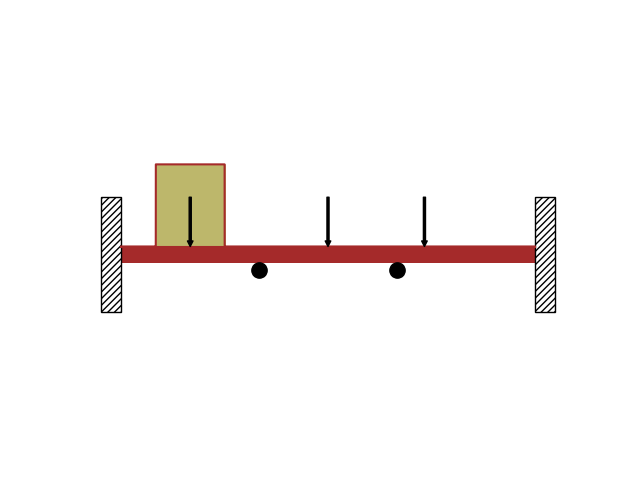
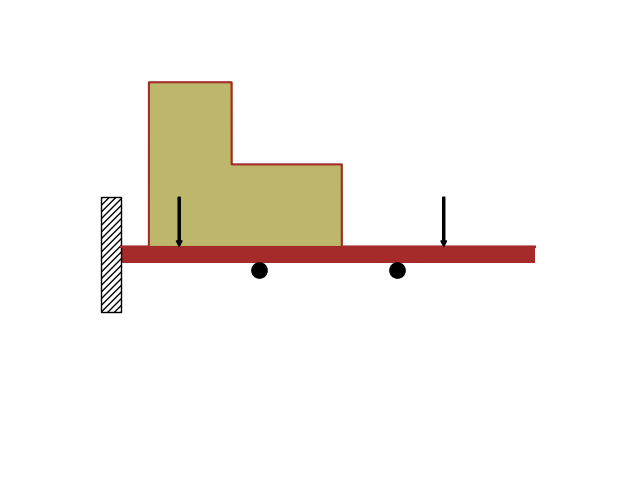
changed the loading form for continuous beam

Changed region(s): [[0.2188, 0.1562, 0.5625, 0.5312], [0.8125, 0.4062, 0.875, 0.6562], [0.6562, 0.4062, 0.7188, 0.5312]]

diff --git a/pages/Continious_Beam_Analysis.py b/pages/Continious_Beam_Analysis.py
@@ -1,5 +1,6 @@
 from ossaudiodev import control_labels
 
+
 from requests import options
 import streamlit as st
 
@@ -51,7 +52,7 @@ if type_of_spans == "Equal":
     
     #print(_equally_spaced_sprt_loc)
     _span_options = create_span_list(num_spans)
-    _span_choice = further_params.radio("choose span no:", options= _span_options, horizontal=True)
+    #_span_choice = further_params.radio("choose span no:", options= _span_options, horizontal=True)
     
     #-- Initialization of beam
 
@@ -60,62 +61,67 @@ if type_of_spans == "Equal":
     #----initializing a session state variable to save the user input
     #---Read More @ https://docs.streamlit.io/library/api-reference/session-state
     #---Handy tutorial @ https://www.youtube.com/watch?v=5l9COMQ3acc
+    
     if 'pt_load_matrix' not in st.session_state:
-        st.session_state.pt_load_matrix = [None, None, None, None]
+        st.session_state.pt_load_matrix = generate_list(num_spans)
 
     if 'udl_matrix' not in st.session_state:
-        st.session_state.udl_matrix = [None, None, None, None]
+        st.session_state.udl_matrix = generate_list(num_spans)
 
 
     if 'moment_matrix' not in st.session_state:
-        st.session_state.moment_matrix = [None, None, None, None]
+        st.session_state.moment_matrix = generate_list(num_spans)
 
         
     # point_load_form
     pt_load_inp_form = pt_load_frm.form("simple_loadings_form_pt")
-    pt_load_inp_form.write(_span_choice)
-    _span_id = int(_span_choice[5])
-    point_load = pt_load_inp_form.slider("Point Magnitude (kN)", 0.0, 25.0, 10.0, step=1.0)
-    point_load_loc = pt_load_inp_form.slider("Point Load Location (m)", float(_equally_spaced_sprt_loc[_span_id-1]), float(_equally_spaced_sprt_loc[_span_id]), float(_equally_spaced_sprt_loc[_span_id]+_equally_spaced_sprt_loc[_span_id-1])/2, step=0.1)  
+    _span_choice_pt = pt_load_inp_form.radio("choose span no:", options= _span_options, horizontal=True)
+    
+    _span_id_pt = int(_span_choice_pt[5])
+    point_load = pt_load_inp_form.slider("Point Magnitude (kN)", 0.0, 25.0, 0.0, step=1.0)
+    point_load_loc = pt_load_inp_form.slider("Point Load Location (m)", 0.0, total_length, total_length/2.0, step=0.1)  
     pt_load_inp_form.form_submit_button("Apply Point Load")
 
     #----- Saving Load
-    print(_span_choice, _span_id)
+    
     st.session_state.pt_load_matrix
-    st.session_state.pt_load_matrix[_span_id-1] = [point_load, point_load_loc]
+    st.session_state.pt_load_matrix[_span_id_pt-1] = [point_load, point_load_loc]
     
     
     ##### UDL Form #########
     udl_load_inp_form = udl_frm.form("simple_loadings_form_udl")
-    udl_load_inp_form.write(_span_choice)
-    _span_id = int(_span_choice[5])
-    udl_load = udl_load_inp_form.slider("UDL Magnitude (kN/m)", 0.0, 20.0, 10.0, step=1.0)
+    _span_choice_udl = udl_load_inp_form.radio("choose span no:", options= _span_options, horizontal=True)
+    
+    
+    _span_id_udl = int(_span_choice_udl[5])
+    udl_load = udl_load_inp_form.slider("UDL Magnitude (kN/m)", 0.0, 20.0, 0.0, step=1.0)
 
     
-    lat = list(np.around(np.linspace(float(_equally_spaced_sprt_loc[_span_id-1]), float(_equally_spaced_sprt_loc[_span_id]), 5),decimals = 2))
+    lat = list(np.around(np.linspace(0.0, total_length, int(total_length)+1),decimals = 2))
     udl_strt_loc, udl_end_loc = udl_load_inp_form.select_slider("label", options=lat, value=(lat[0], lat[-1]))
     
-    ## start and end location is a string - later convert it to float in order to use
+    ## start and end location is a string - later converti it to float in order to use
     udl_load_inp_form.form_submit_button("Apply UDL")
 
     #----- Saving Load
-    st.session_state.udl_matrix[_span_id-1] = [udl_load, float(udl_strt_loc), float(udl_end_loc)]
+    st.session_state.udl_matrix[_span_id_udl-1] = [udl_load, float(udl_strt_loc), float(udl_end_loc)]
 
     ##### Moment Load Form ########
     moment_load_inp_form = mmt_frm.form("simple_loadings_form_moment")
-    moment_load_inp_form.write(_span_choice)
-    _span_id = int(_span_choice[5])
+    _span_choice_mmt = moment_load_inp_form.radio("choose span no:", options= _span_options, horizontal=True)
+    
+    _span_id_mmt = int(_span_choice_mmt[5])
     moment_load = moment_load_inp_form.slider("Moment Magnitude (kN-m)", -20.0, 20.0, 0.0, step=1.0)
-    moment_load_loc = moment_load_inp_form.slider("Moment Load Location (m)", float(_equally_spaced_sprt_loc[_span_id-1]), float(_equally_spaced_sprt_loc[_span_id]), float(_equally_spaced_sprt_loc[_span_id]+_equally_spaced_sprt_loc[_span_id-1])/2, step=0.1)
+    moment_load_loc = moment_load_inp_form.slider("Moment Load Location (m)", 0.0, total_length, total_length/2.0 , step=0.1)
     moment_load_inp_form.form_submit_button("Apply Moment Load")
 
-    st.session_state.moment_matrix[_span_id-1] = [moment_load, float(moment_load_loc)]
+    st.session_state.moment_matrix[_span_id_mmt-1] = [moment_load, float(moment_load_loc)]
     
     
     # Initailization of beam
     cont_beam, viz_beam = create_contnious_beam(total_length, sprt_cond, _equally_spaced_sprt_loc,E, I)
     apply_point_loads(viz_beam, st.session_state.pt_load_matrix)
-    apply_udl_loads(viz_beam, st.session_state.udl_matrix)
+    apply_udl_loads(viz_beam, st.session_state.udl_matrix ,num_spans)
     apply_moment_loads(viz_beam, st.session_state.moment_matrix)
     
        
@@ -135,7 +141,7 @@ if type_of_spans == "Equal":
     apply_interm_sprt_rxn_loads(cont_beam, rxn_symbs, _equally_spaced_sprt_loc)
 
     apply_point_loads(cont_beam, st.session_state.pt_load_matrix)
-    apply_udl_loads(cont_beam, st.session_state.udl_matrix)
+    apply_udl_loads(cont_beam, st.session_state.udl_matrix, num_spans)
     apply_moment_loads(cont_beam, st.session_state.moment_matrix)
 
     rxn_loads = solve_rxn_loads(cont_beam, rxn_symbs)

diff --git a/conti_beam_analysis.py b/conti_beam_analysis.py
@@ -137,11 +137,18 @@ def apply_point_loads(cont_beam, pt_load_container: list):
             if pt_load_container[i][0] > 0.0:
                 cont_beam.apply_load(float(pt_load_container[i][0]), float(pt_load_container[i][1]), -1)
 
-def apply_udl_loads(cont_beam, udl_container):
+def apply_udl_loads(cont_beam, udl_container, num_spans):
+    _cnt = len(udl_container)
+    for i in range(len(udl_container)):
+        if _cnt != num_spans:
+            udl_container = udl_container[:-1]
     for _udl in udl_container:
+        _cnt += 1
         if _udl != None:
             if _udl[0] > 0.0:
                 cont_beam.apply_load(_udl[0], _udl[1], 0, end=_udl[2])
+    
+    
 
 def apply_moment_loads(cont_beam, moment_container):
     for mmt in moment_container:
@@ -186,8 +193,17 @@ def solve_rxn_loads(cont_beam, rxn_symb_list):
 
     return _cleaned_results
 
-def continous_beam_slope_equation(cont_beam):
+def continous_beam_deflection(cont_beam, beam_type):
+    x = symbols("x")
+
     raise NotImplementedError
 
 def provide_bc(cont_beam):
     raise NotImplementedError
+
+
+
+
+
+
+
